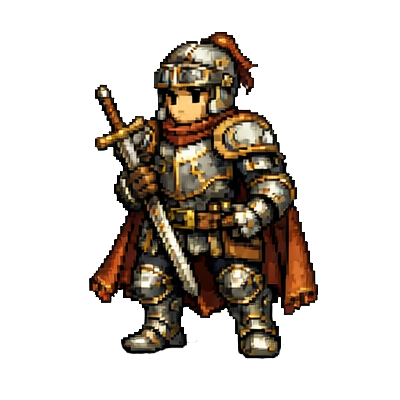
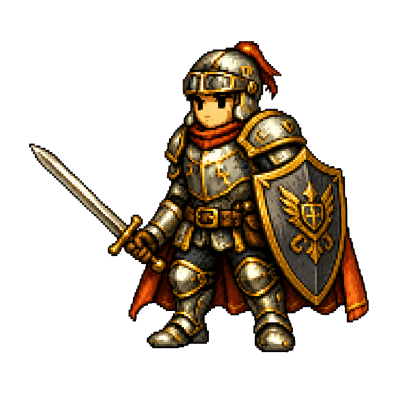
Merge pull request #37 from EduLG/feature/responsiveness
Feature/icon change

Pull request: Feature/icon change

diff --git a/frontend-react/src/pages/Home.jsx b/frontend-react/src/pages/Home.jsx
@@ -1,3 +1,4 @@
+import { useState } from "react";
 import { NavLink, Outlet, useNavigate } from "react-router-dom";
 import { Avatar, DropdownMenu } from "@radix-ui/themes";
 import useUser from "../hooks/useUser";
@@ -20,18 +21,13 @@ const sidebarLinkClass = ({ isActive }) =>
       : "text-muted hover:bg-white/8 hover:text-primary border border-transparent"
   }`;
 
-const mobileLinkClass = ({ isActive }) =>
-  `flex-1 flex flex-col items-center justify-center py-1.5 text-[10px] uppercase tracking-wider transition-colors ${
-    isActive ? "text-accent font-bold" : "text-muted"
-  }`;
-
-
 const Home = () => {
   const { data: user, refetch } = useUser();
   const party = user?.party;
   const needsOnboarding = user && party && party.characters.length === 0;
 
   const navigate = useNavigate();
+  const [menuOpen, setMenuOpen] = useState(false);
 
   const handleLogout = () => {
     localStorage.removeItem("token");
@@ -51,11 +47,34 @@ const Home = () => {
       {/* HEADER */}
       <header className="sticky top-0 z-20 backdrop-blur-md bg-header border-b border-faint">
         <div className="max-w-7xl mx-auto px-4 sm:px-6 py-3 flex items-center justify-between">
-          <img src={headerlogo} alt="Logo" className="h-10 sm:h-12" />
+          <div className="flex items-center gap-3">
+            {/* Hamburger */}
+            <button
+              className="lg:hidden flex flex-col justify-center gap-1.5 w-8 h-8 cursor-pointer"
+              onClick={() => setMenuOpen((prev) => !prev)}
+              aria-label="Toggle navigation"
+            >
+              <span
+                className={`block h-0.5 bg-primary transition-all duration-200 ${menuOpen ? "rotate-45 translate-y-2" : ""}`}
+              />
+              <span
+                className={`block h-0.5 bg-primary transition-all duration-200 ${menuOpen ? "opacity-0" : ""}`}
+              />
+              <span
+                className={`block h-0.5 bg-primary transition-all duration-200 ${menuOpen ? "-rotate-45 -translate-y-2" : ""}`}
+              />
+            </button>
+            <img src={headerlogo} alt="Logo" className="h-10 sm:h-12" />
+          </div>
+
           <div className="flex items-center gap-3">
             <div className="text-right hidden sm:block">
-              <p className="text-[10px] uppercase tracking-widest text-muted">Explorer</p>
-              <p className="text-sm font-semibold text-primary">{user?.username || "Guest"}</p>
+              <p className="text-[10px] uppercase tracking-widest text-muted">
+                Explorer
+              </p>
+              <p className="text-sm font-semibold text-primary">
+                {user?.username || "Guest"}
+              </p>
             </div>
 
             <DropdownMenu.Root>
@@ -81,15 +100,35 @@ const Home = () => {
             </DropdownMenu.Root>
           </div>
         </div>
+
+        {/* Menu desplegable movil */}
+        {menuOpen && (
+          <nav className="lg:hidden border-t border-faint bg-header px-4 py-3">
+            <ul className="flex flex-col gap-1">
+              {navItems.map((item) => (
+                <li key={item.to}>
+                  <NavLink
+                    to={item.to}
+                    className={sidebarLinkClass}
+                    onClick={() => setMenuOpen(false)}
+                  >
+                    {item.label}
+                  </NavLink>
+                </li>
+              ))}
+            </ul>
+          </nav>
+        )}
       </header>
 
       {/* LAYOUT */}
       <div className="max-w-7xl mx-auto px-4 sm:px-6 py-6 sm:py-8 grid grid-cols-1 lg:grid-cols-[220px_1fr] gap-6">
-
         {/* SIDEBAR DESKTOP */}
         <aside className="hidden lg:block">
           <nav className="rounded-2xl p-3 sticky top-24 border border-soft bg-card">
-            <p className="text-[10px] uppercase tracking-widest text-muted px-3 mb-2">Navigation</p>
+            <p className="text-[10px] uppercase tracking-widest text-muted px-3 mb-2">
+              Navigation
+            </p>
             <ul className="flex flex-col gap-1">
               {navItems.map((item) => (
                 <li key={item.to}>
@@ -103,27 +142,15 @@ const Home = () => {
         </aside>
 
         {/* MAIN CONTENT */}
-        <main className="space-y-5 pb-24 lg:pb-0">
+        <main className="space-y-5">
           <Outlet context={{ user, party, refetch }} />
         </main>
       </div>
 
       {/* ONBOARDING MODAL */}
       {needsOnboarding && (
-        <OnboardingModal
-          username={user.username}
-          onComplete={refetch}
-        />
+        <OnboardingModal username={user.username} onComplete={refetch} />
       )}
-
-      {/* MOBILE BOTTOM NAV */}
-      <nav className="lg:hidden fixed bottom-0 left-0 right-0 bg-mobile-nav backdrop-blur-xl border-t border-faint flex z-30">
-        {navItems.map((item) => (
-          <NavLink key={item.to} to={item.to} className={mobileLinkClass}>
-            {item.mobileLabel}
-          </NavLink>
-        ))}
-      </nav>
     </div>
   );
 };

diff --git a/frontend-react/src/views/InventoryView.jsx b/frontend-react/src/views/InventoryView.jsx
@@ -33,7 +33,7 @@ const SlotIcon = ({ type }) => {
     <img
       src={icon.src}
       alt={type}
-      className="w-7 h-7"
+      className="w-12 h-12"
       style={icon.flip ? { transform: "scaleX(-1)" } : undefined}
     />
   );
@@ -155,12 +155,12 @@ const InventoryView = () => {
       </div>
 
       {/* SLOT FILTER TABS */}
-      <div className="flex gap-2 flex-wrap">
+      <div className="grid grid-cols-2 gap-2">
         {SLOT_FILTERS.map((f) => (
           <button
             key={f}
             onClick={() => setFilter(f)}
-            className={`px-4 py-1.5 rounded-xl text-xs font-semibold transition-all duration-200 border ${
+            className={`w-full px-4 py-1.5 rounded-xl text-xs font-semibold text-center transition-all duration-200 border ${
               filter === f
                 ? "bg-accent-dim border-accent text-primary"
                 : "bg-input border-soft text-secondary"
@@ -200,9 +200,7 @@ const InventoryView = () => {
               >
                 {/* ITEM ROW */}
                 <div className="flex items-center gap-4 px-5 py-4">
-                  <div className="w-12 h-12 shrink-0 rounded-xl border border-accent bg-accent-dim flex items-center justify-center">
-                    <SlotIcon type={eq.type} />
-                  </div>
+                  <SlotIcon type={eq.type} />
                   <div className="flex-1 min-w-0">
                     <p className="text-sm font-semibold truncate text-primary">
                       {eq.name}

diff --git a/frontend-react/src/views/EquipmentView.jsx b/frontend-react/src/views/EquipmentView.jsx
@@ -214,12 +214,12 @@ const EquipmentView = () => {
   return (
     <div className="space-y-5">
       {/* CHARACTER TABS */}
-      <div className="flex gap-2 flex-wrap">
+      <div className="grid grid-cols-2 gap-2">
         {characters.map((char) => (
           <button
             key={char.id}
             onClick={() => handleCharSelect(char.id)}
-            className={`px-5 py-2 rounded-xl text-sm font-semibold transition-all duration-200 border ${
+            className={`w-full px-5 py-2 rounded-xl text-sm font-semibold text-center transition-all duration-200 border ${
               (selectedCharId ?? characters[0]?.id) === char.id
                 ? "bg-accent-dim border-accent text-primary"
                 : "bg-input border-soft text-secondary"
@@ -289,9 +289,9 @@ const EquipmentView = () => {
           )}
 
           {/* EQUIPMENT SLOTS */}
-          <div className="p-6 flex gap-5 items-stretch">
+          <div className="p-6 flex flex-col sm:flex-row gap-5 items-stretch">
             {/* CHARACTER AVATAR */}
-            <div className="w-48 h-56 shrink-0 self-start rounded-xl border border-accent bg-accent-dim flex items-center justify-center overflow-hidden">
+            <div className="w-full h-48 sm:w-48 sm:h-56 sm:shrink-0 sm:self-start rounded-xl border border-accent bg-accent-dim flex items-center justify-center overflow-hidden">
               {(pendingJob ?? selectedChar.current_job)?.icon ? (
                 <img
                   src={(pendingJob ?? selectedChar.current_job).icon}

diff --git a/frontend-react/src/views/TeamView.jsx b/frontend-react/src/views/TeamView.jsx
@@ -12,7 +12,7 @@ const TeamView = () => {
   return (
     <>
       {/* HANGAR IMAGE */}
-      <div className="relative bg-white/5 border border-white/10 rounded-2xl overflow-hidden backdrop-blur-sm">
+      <div className="hidden sm:block relative bg-white/5 border border-white/10 rounded-2xl overflow-hidden backdrop-blur-sm">
         <img
           src={hangarImg}
           alt="Party Hangar"
@@ -37,13 +37,13 @@ const TeamView = () => {
         </div>
 
         {/* CHARACTER SPRITES */}
-        <div className="absolute bottom-[6.25%] left-0 right-0 flex justify-center items-end gap-6 sm:gap-10 px-16 sm:px-24 md:px-32">
+        <div className="absolute bottom-[6.25%] left-0 right-0 flex justify-center items-end gap-2 sm:gap-10 px-4 sm:px-24 md:px-32">
           {partyCharacters.map((character) => (
             <img
               key={character.id}
               src={character.current_job?.icon}
               alt={character.name}
-              className="h-[82px] sm:h-[102px] md:h-[121px] object-contain drop-shadow-xl brightness-80"
+              className="h-[64px] sm:h-[102px] md:h-[121px] object-contain drop-shadow-xl brightness-80"
             />
           ))}
         </div>

diff --git a/frontend-react/src/styles/index.css b/frontend-react/src/styles/index.css
@@ -34,6 +34,7 @@ p, li, blockquote, .font-body {
 }
 
 /* ── Background utilities ── */
+@utility bg-primary      { background: var(--text-primary); }
 @utility bg-page         { background: var(--bg-page); }
 @utility bg-header       { background: var(--bg-header); }
 @utility bg-sidebar      { background: var(--bg-sidebar); }